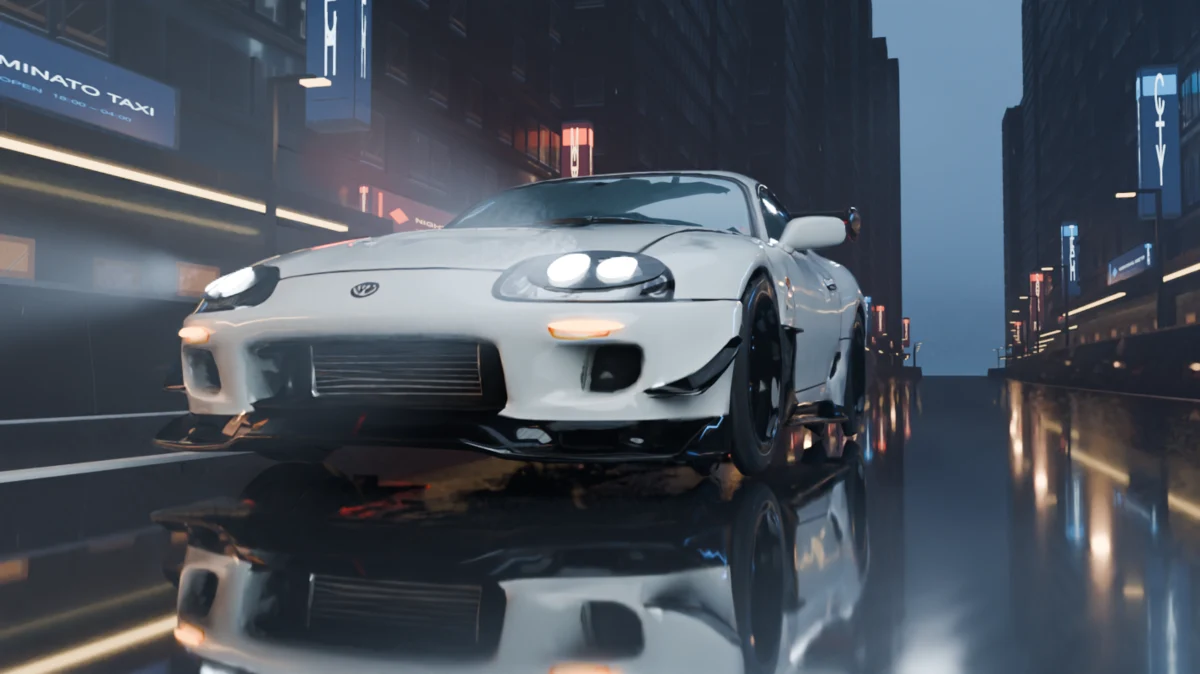
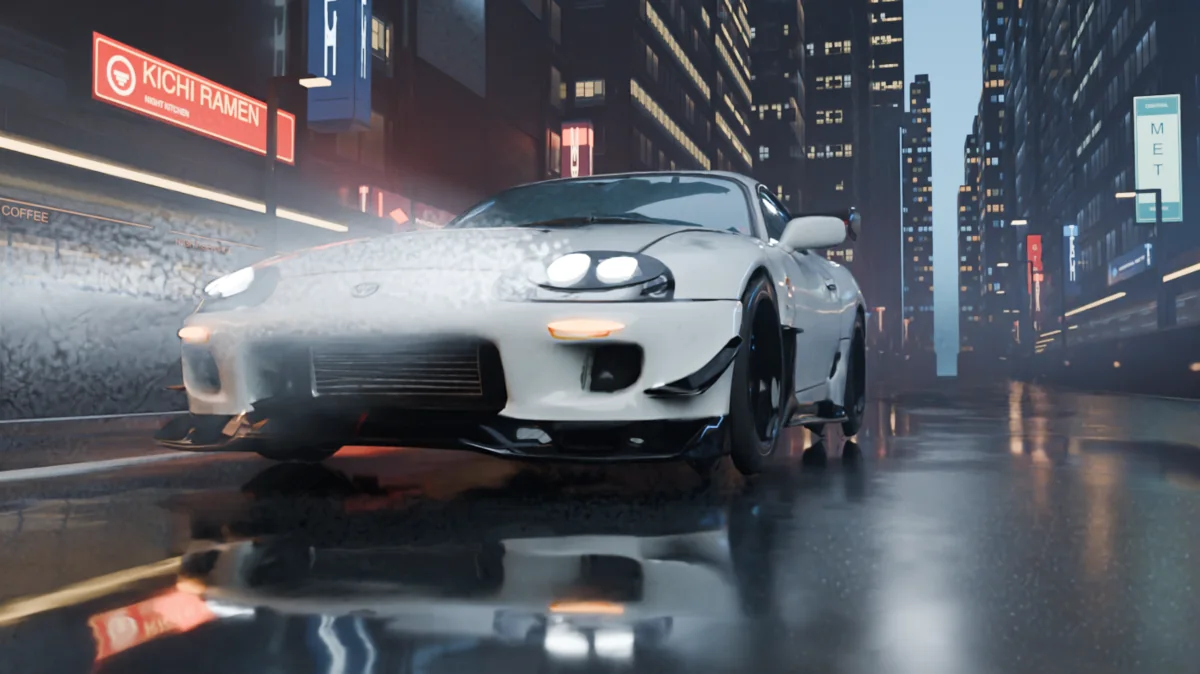
Polish rainy circuit previews and refresh the showcase

diff --git a/runtime/threert/scene.ts b/runtime/threert/scene.ts
@@ -19,7 +19,7 @@ export type ThreeRTInput = {
     world: { color: number[]; strength: number; environmentUri?: string | null; environmentRotationY?: number };
     lights: { name: string; type: string; color: number[]; energy: number; useShadow: boolean;
       size: number; sizeY: number; shape: string; spotSize: number; spotBlend: number; worldMatrix: number[] }[];
-    previewAppearance?: { dust?: { color: number[]; wind?: number[]; volumes: { center: number[]; radius: number[]; density: number }[] } };
+    previewAppearance?: { hazeScale?: number; dust?: { color: number[]; wind?: number[]; volumes: { center: number[]; radius: number[]; density: number }[] } };
     postprocessing?: { bloom?: { strength?: number; threshold?: number }; haze?: {
       color: number[]; strength: number; start: number; depth: number; falloff: string };
     };
@@ -204,10 +204,13 @@ export function buildThreeRTScene({ camera: view, profile, assetPrefix = "", env
     scene.add(fogBox);
   }
   const dust = profile.previewAppearance?.dust;
+  const hazeScale = profile.previewAppearance?.hazeScale ?? 1;
   for (const volume of dust?.volumes ?? []) {
+    const density = volume.density * hazeScale;
+    if (density <= 0) continue;
     // FogVolume combines coverages, rather than adding extinction. A saturated height
     // term preserves the profile's radial density; two small terms nearly erase thin air.
-    const fog = new FogVolume({ radialExtinction: volume.density, heightExtinction: 20,
+    const fog = new FogVolume({ radialExtinction: density, heightExtinction: 20,
       heightFalloff: 0, albedo: dust!.color.slice(0, 3) as [number, number, number], phaseG: 0.45 });
     fog.volume.fn = driftingDust;
     const wind = dust!.wind ?? [0, 0, 0];
@@ -224,7 +227,7 @@ export function buildThreeRTScene({ camera: view, profile, assetPrefix = "", env
     fog.setVolumetric(1, worldVolume.anisotropy);
     scene.fog = fog;
   } else if (mist) {
-    const opacity = Math.max(0, Math.min(0.98, mist.strength));
+    const opacity = Math.max(0, Math.min(0.98, mist.strength * hazeScale));
     const fog = new ExponentialHeightFog(-Math.log1p(-opacity) / Math.max(0.001, mist.depth), 0, color(mist.color));
     fog.startDistance = mist.start;
     fog.maxOpacity = opacity;

diff --git a/tests/threert.test.ts b/tests/threert.test.ts
@@ -101,8 +101,9 @@ test("native models normalize RGB16 and RGBA16 PNGs without changing source, mes
 });
 
 test("thin atmosphere retains physical extinction through ThreeRT's fog coverage combination", () => {
-  for (const density of [0.004, 0.14]) {
+  for (const [density, hazeScale] of [[0.004, undefined], [0.14, 0.53]] as const) {
     const input: ThreeRTInput = { camera: cameraFromGLB(glb()), profile: structuredClone(profile) };
+    input.profile.previewAppearance!.hazeScale = hazeScale;
     input.profile.previewAppearance!.dust!.volumes[0]!.density = density;
     input.profile.previewAppearance!.dust!.wind = [0.12, 0.04, 0.025];
     const fog = buildThreeRTScene(input).scene.children.find(child => child instanceof FogVolume) as FogVolume;
@@ -111,8 +112,9 @@ test("thin atmosphere retains physical extinction through ThreeRT's fog coverage
     // At the sphere centre, the height term must not suppress the specified radial density.
     const a = Math.exp(-Height), b = Math.exp(-Radial);
     const extinction = -Math.log(a + b - a * b);
-    assert.ok(Math.abs(extinction / density - 1) < 0.00001);
-    assert.ok(Math.abs(Math.exp(-extinction * 20) - Math.exp(-density * 20)) < 0.00001);
+    const expectedDensity = density * (hazeScale ?? 1);
+    assert.ok(Math.abs(extinction / expectedDensity - 1) < 0.00001);
+    assert.ok(Math.abs(Math.exp(-extinction * 20) - Math.exp(-expectedDensity * 20)) < 0.00001);
     assert.equal(fog.animated, true, "The native viewport must update the drifting medium");
     assert.deepEqual(fog.volume.params.Wind, [0.12, 0.025, -0.04, 0], "Convert Blender Z-up wind to native Y-up");
   }

diff --git a/tests/viewer-lighting.test.ts b/tests/viewer-lighting.test.ts
@@ -85,7 +85,7 @@ test("planar reflection preserves physical receiver materials and rejects a tall
   assert.throws(() => addPlanarReflection(scene, tower, "Tower"), /horizontal surface/);
 });
 
-test("raster shadow maps share the GPU sampler budget with the most textured visible receiver", () => {
+test("raster shadow maps reserve samplers for textured baked receivers", () => {
   const scene = new THREE.Scene(), camera = new THREE.PerspectiveCamera();
   scene.environment = new THREE.Texture();
   scene.add(new THREE.RectAreaLight());
@@ -96,7 +96,7 @@ test("raster shadow maps share the GPU sampler budget with the most textured vis
     transmission: 1, transmissionMap: new THREE.Texture(),
   });
   const receiver = new THREE.Mesh(new THREE.BoxGeometry(), material);
-  receiver.receiveShadow = true;
+  receiver.receiveShadow = false;
   scene.add(receiver);
   const sun = new THREE.DirectionalLight();
   sun.castShadow = true;

diff --git a/src/viewer/lighting.ts b/src/viewer/lighting.ts
@@ -44,7 +44,8 @@ export function limitPreviewShadows(scene: THREE.Scene, camera: THREE.Camera, ma
   const materials = new Set<THREE.MeshStandardMaterial>();
   let areaLights = false, spotTextures = 0;
   scene.traverseVisible(object => {
-    if (object instanceof THREE.Mesh && object.receiveShadow) {
+    // Shadow samplers are allocated by the scene shader even for baked receivers.
+    if (object instanceof THREE.Mesh) {
       for (const material of Array.isArray(object.material) ? object.material : [object.material]) {
         if (material instanceof THREE.MeshStandardMaterial && material.visible) materials.add(material);
       }

diff --git a/README.md b/README.md
@@ -36,7 +36,7 @@ and interactive presentation with [Meshy's ThreeRT](https://github.com/meshy-dev
     <td align="center" valign="middle"><a href="docs/forest-house-reference.webp"><img src="docs/forest-house-reference.webp" alt="Reference of a glass house and pool among pines at sunset" width="180" /></a></td>
     <td align="center" valign="middle"><a href="docs/forest-house-blender.webp"><img src="docs/forest-house-blender.webp" alt="Blender render with warm interiors and sunlight through the pines" width="180" /></a></td>
     <td align="center" valign="middle"><a href="docs/rainy-city-circuit-reference.webp"><img src="docs/rainy-city-circuit-reference.webp" alt="Low-angle reference of a white sports car and neon reflections on a rainy city street" width="214" /></a></td>
-    <td align="center" valign="middle"><a href="docs/rainy-city-circuit-blender.webp"><img src="docs/rainy-city-circuit-blender.webp" alt="Low-angle Blender render of a white sports car and its wet-road reflection" width="214" /></a></td>
+    <td align="center" valign="middle"><a href="docs/rainy-city-circuit-blender.webp"><img src="docs/rainy-city-circuit-blender.webp" alt="Blender render with headlight beams, broken reflections on wet asphalt and rows of lit tower windows" width="214" /></a></td>
   </tr>
   <tr>
     <th scope="col">Three.js</th>
@@ -47,14 +47,14 @@ and interactive presentation with [Meshy's ThreeRT](https://github.com/meshy-dev
   <tr>
     <td align="center" valign="middle"><a href="docs/forest-house-threejs.webp"><img src="docs/forest-house-threejs.webp" alt="Three.js preview of the forest house, sunbeams and pool" width="180" /></a></td>
     <td align="center" valign="middle"><a href="docs/forest-house-threert.webp"><img src="docs/forest-house-threert.webp" alt="ThreeRT render of the house and sunbeams with simplified trees" width="180" /></a></td>
-    <td align="center" valign="middle"><a href="docs/rainy-city-circuit-threejs.webp"><img src="docs/rainy-city-circuit-threejs.webp" alt="Low-angle Three.js view with headlight reflections on wet asphalt and mist behind the car" width="214" /></a></td>
-    <td align="center" valign="middle"><a href="docs/rainy-city-circuit-threert.webp"><img src="docs/rainy-city-circuit-threert.webp" alt="Low-angle ThreeRT render with headlights, street mist and a car reflection on wet asphalt" width="214" /></a></td>
+    <td align="center" valign="middle"><a href="docs/rainy-city-circuit-threejs.webp"><img src="docs/rainy-city-circuit-threejs.webp" alt="Low-angle Three.js view with lit office towers and reflections on wet asphalt" width="214" /></a></td>
+    <td align="center" valign="middle"><a href="docs/rainy-city-circuit-threert.webp"><img src="docs/rainy-city-circuit-threert.webp" alt="Low-angle ThreeRT render with staggered towers, street mist and the car's reflection" width="214" /></a></td>
   </tr>
 </table>
 
 The forest house was built from one reference. Three.js uses baked diffuse lighting on selected building surfaces. The ThreeRT image uses simplified tree geometry and is cropped to match the Blender framing.
 
-The three rainy circuit renders use the scene's low-angle camera to compare the headlight beams, mist and wet-road reflections with the original reference. Three.js uses lightmaps for the road, barriers and storefronts, with real-time reflections and fog lit by local lights.
+The three rainy circuit renders use the same low-angle camera. The headlights illuminate thin mist ahead of the car, with broken white highlights on the wet road. Rows of lit office windows rise behind the storefronts. Three.js uses baked lightmaps for the road, barriers and storefronts and renders wet-road reflections in real time. Three.js and ThreeRT both apply the preview haze scale to the local dust and mist effects.
 
 ## What's in the plugin
 

diff --git a/README.zh-CN.md b/README.zh-CN.md
@@ -31,7 +31,7 @@
     <td align="center" valign="middle"><a href="docs/forest-house-reference.webp"><img src="docs/forest-house-reference.webp" alt="夕阳下的玻璃住宅、池水和松林参考图" width="180" /></a></td>
     <td align="center" valign="middle"><a href="docs/forest-house-blender.webp"><img src="docs/forest-house-blender.webp" alt="Blender 成片中的室内暖光和穿林光束" width="180" /></a></td>
     <td align="center" valign="middle"><a href="docs/rainy-city-circuit-reference.webp"><img src="docs/rainy-city-circuit-reference.webp" alt="雨夜赛道低机位参考图，白色跑车和街边霓虹倒映在路面上" width="214" /></a></td>
-    <td align="center" valign="middle"><a href="docs/rainy-city-circuit-blender.webp"><img src="docs/rainy-city-circuit-blender.webp" alt="Blender 低机位成片，白色跑车倒映在湿路上" width="214" /></a></td>
+    <td align="center" valign="middle"><a href="docs/rainy-city-circuit-blender.webp"><img src="docs/rainy-city-circuit-blender.webp" alt="Blender 成片中的车灯光束、湿路上的断续反光和塔楼成排亮窗" width="214" /></a></td>
   </tr>
   <tr>
     <th scope="col">Three.js</th>
@@ -42,14 +42,14 @@
   <tr>
     <td align="center" valign="middle"><a href="docs/forest-house-threejs.webp"><img src="docs/forest-house-threejs.webp" alt="Three.js 预览中的林间住宅、光束和水池" width="180" /></a></td>
     <td align="center" valign="middle"><a href="docs/forest-house-threert.webp"><img src="docs/forest-house-threert.webp" alt="ThreeRT 渲染中的林间住宅和光束，树木使用简化几何" width="180" /></a></td>
-    <td align="center" valign="middle"><a href="docs/rainy-city-circuit-threejs.webp"><img src="docs/rainy-city-circuit-threejs.webp" alt="Three.js 低机位预览中的湿路灯光和车后薄雾" width="214" /></a></td>
-    <td align="center" valign="middle"><a href="docs/rainy-city-circuit-threert.webp"><img src="docs/rainy-city-circuit-threert.webp" alt="ThreeRT 低机位渲染中的车灯、街雾和车身倒影" width="214" /></a></td>
+    <td align="center" valign="middle"><a href="docs/rainy-city-circuit-threejs.webp"><img src="docs/rainy-city-circuit-threejs.webp" alt="Three.js 低机位预览中的办公塔楼窗灯与湿路倒影" width="214" /></a></td>
+    <td align="center" valign="middle"><a href="docs/rainy-city-circuit-threert.webp"><img src="docs/rainy-city-circuit-threert.webp" alt="ThreeRT 低机位渲染中的错落塔楼、街雾和车身倒影" width="214" /></a></td>
   </tr>
 </table>
 
 林间住宅根据一张参考图制作。Three.js 在部分建筑表面使用烘焙的漫反射光照。ThreeRT 图采用简化的树木几何，并按 Blender 的取景裁切。
 
-雨夜赛道的三个渲染结果使用同一低机位，与原始参考图对照车灯光束、薄雾和湿路倒影。Three.js 用光照贴图显示道路、护栏和店面的静态光照，实时计算湿路倒影和局部灯光在雾中的散射。
+雨夜赛道的三个渲染结果使用同一低机位。车灯照亮车前薄雾，在湿路上留下断续的白色高光。沿街店面后方是成排亮窗的办公塔楼。Three.js 用烘焙光照贴图显示道路、护栏和店面的静态光照，并实时计算湿路反射。Three.js 和 ThreeRT 都将预览雾量应用到局部雾效和深度薄雾。
 
 ## 插件包含什么
 
